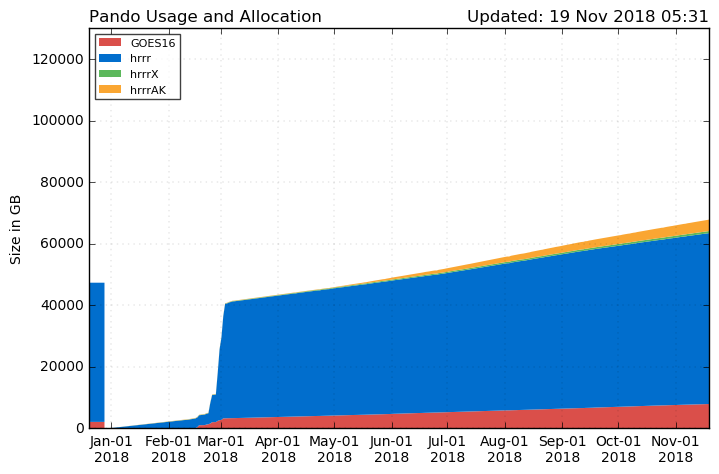
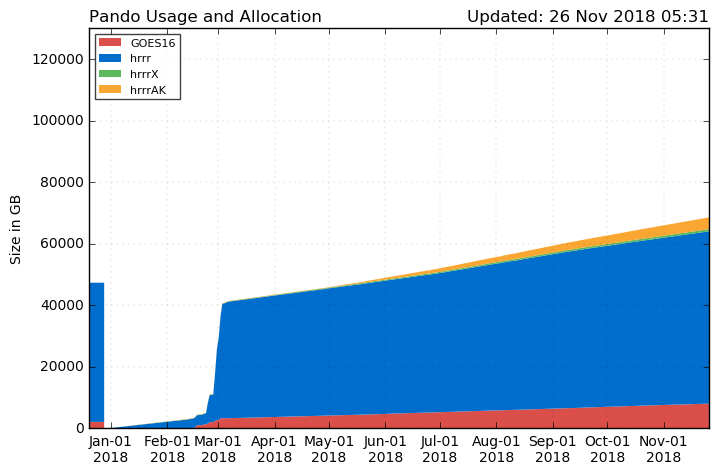
updates

diff --git a/Pando_archive/index.html b/Pando_archive/index.html
@@ -37,7 +37,7 @@
         </div>
   <br>
   <script src='./js/pando_status.js'></script>
-    <center><font size=12> 68.0 TB out of 130 TB</font>
+    <center><font size=12> 68.7 TB out of 130 TB</font>
     <div class="progress" style="max-width:700px;height:35px">
             <div class="progress-bar progress-bar-danger" role="progressbar" style="width:6%">
               <font size=4></font>
@@ -64,9 +64,9 @@
         <th style='text-align:center'>Estimated Full Date</th>
       </tr>
       <tr>
-        <td>104.28 GB</td>
-        <td>594</td>
-        <td>05 July 2020</td>
+        <td>107.36 GB</td>
+        <td>570</td>
+        <td>18 June 2020</td>
       </tr>
     </table>
     <table class="table table-bordered" style='text-align:center;max-width:700px'>
@@ -80,14 +80,14 @@
       <tr>
         <th>sfc</th>
         <td>--</td>
-        <td>23.86</td>
-        <td>0.96</td>
-        <td>9.39</td>
+        <td>24.36</td>
+        <td>1.00</td>
+        <td>9.99</td>
       </tr>
       <tr>
         <th>prs</th>
         <td>--</td>
-        <td>3.48</td>
+        <td>3.59</td>
         <td>0.00</td>
         <td>0.00</td>
       </tr>
@@ -100,10 +100,10 @@
       </tr>
       <tr>
         <th>Total</th>
-        <th>18.0 GB</th>
-        <th>27.35 GB</th>
-        <th>0.96 GB</th>
-        <th>9.39 GB</th>
+        <th>17.9 GB</th>
+        <th>27.95 GB</th>
+        <th>1.00 GB</th>
+        <th>9.99 GB</th>
       </tr>
     </table>
 

diff --git a/js/site/sitemenu.js b/js/site/sitemenu.js
@@ -65,6 +65,7 @@ var no_banner_image = ['home.html',
                        'Pando_Failure.html',
                        'photo_viewer_fire.cgi',
                        'photo_viewer_golf.cgi',
+                       'photo_viewer_HRRR-Spread.cgi',
                       ];
 
 if (no_banner_image.indexOf(filename)<0) {
@@ -124,6 +125,7 @@ document.write('\
                             <li><a href="./hrrr_golf.html "><i class="fa fa-map-marker-alt fa-fw" ></i> HRRR Point Forecast</a></li>\
                             <li><a href="./hrrr_fires.html "><i class="fa fa-fire-extinguisher fa-fw" ></i> HRRR Fires Forecast</a></li>\
                             <li><a href="./cgi-bin/hrrrX-hrrr.cgi "><i class="fa fa-map fa-fw" ></i> HRRRx vs. HRRR Maps</a></li>\
+                            <li><a href="./cgi-bin/hrrr_spread_viewer.cgi"><i class="fa fa-map fa-fw" ></i>  HRRR Spread</a></li>\
                             <li><a href="./cgi-bin/hrrr_errors_viewer.cgi"><i class="fa fa-map fa-fw" ></i>  HRRR Error Maps</a></li>\
                             <li><a href="./cgi-bin/hrrr_osg_point_viewer.cgi"><i class="fas fa-chart-area"></i>  HRRR Percentile Demo</a></li>\
                             <li><a href="./cgi-bin/hrrr_yesterday_viewer.cgi"><i class="fas fa-calendar-alt"></i>  HRRR Yesterday</a></li>\

diff --git a/home.html b/home.html
@@ -119,7 +119,7 @@ in November 2012.
               <div class="media-body">
                 <b>Big Data</b><br>
                 <h4>
-                    <a href='http://hrrr.chpc.utah.edu/'>Data management</a>, data retrieval/acquisition, 
+                    <a href='http://hrrr.chpc.utah.edu/'>Data management</a>, data stewardship, data retrieval/acquisition, 
                     NetCDF, HDF5, GRIB2,
                     data analysis,
                     <a href="http://research.cs.wisc.edu/htcondor/">HTCondor</a>,

diff --git a/photo_viewer/photo_viewer.php b/photo_viewer/photo_viewer.php
@@ -24,8 +24,9 @@ http://home.chpc.utah.edu/~u0553130/Brian_Blaylock/home.html
 function change_picture(img_name){
         /*On Hover*/
 		document.getElementById("sounding_img").src = img_name;
-		document.getElementById("sounding_img").style.width= '100%';
-		document.getElementById("sounding_img").style.maxHeight= '80vh';
+        
+        document.getElementById("sounding_img").style.maxHeight= '80vh';
+        document.getElementById("sounding_img").style.width='auto';
 	}
 function change_picture2(img_name){
         /*On Click*/
@@ -100,7 +101,7 @@ window.addEventListener('resize',toggleBtnGroup); // change on resize
 
 </small>
 
-<!-- Large modal (the intrusctions help button)-->
+<!-- Large modal (the instructions help button)-->
 <button type="button" class="btn btn-primary" data-toggle="modal" data-target=".bs-example-modal-lg">Instructions</button>
 
 <div class="modal fade bs-example-modal-lg" tabindex="-1" role="dialog" aria-labelledby="myLargeModalLabel">
